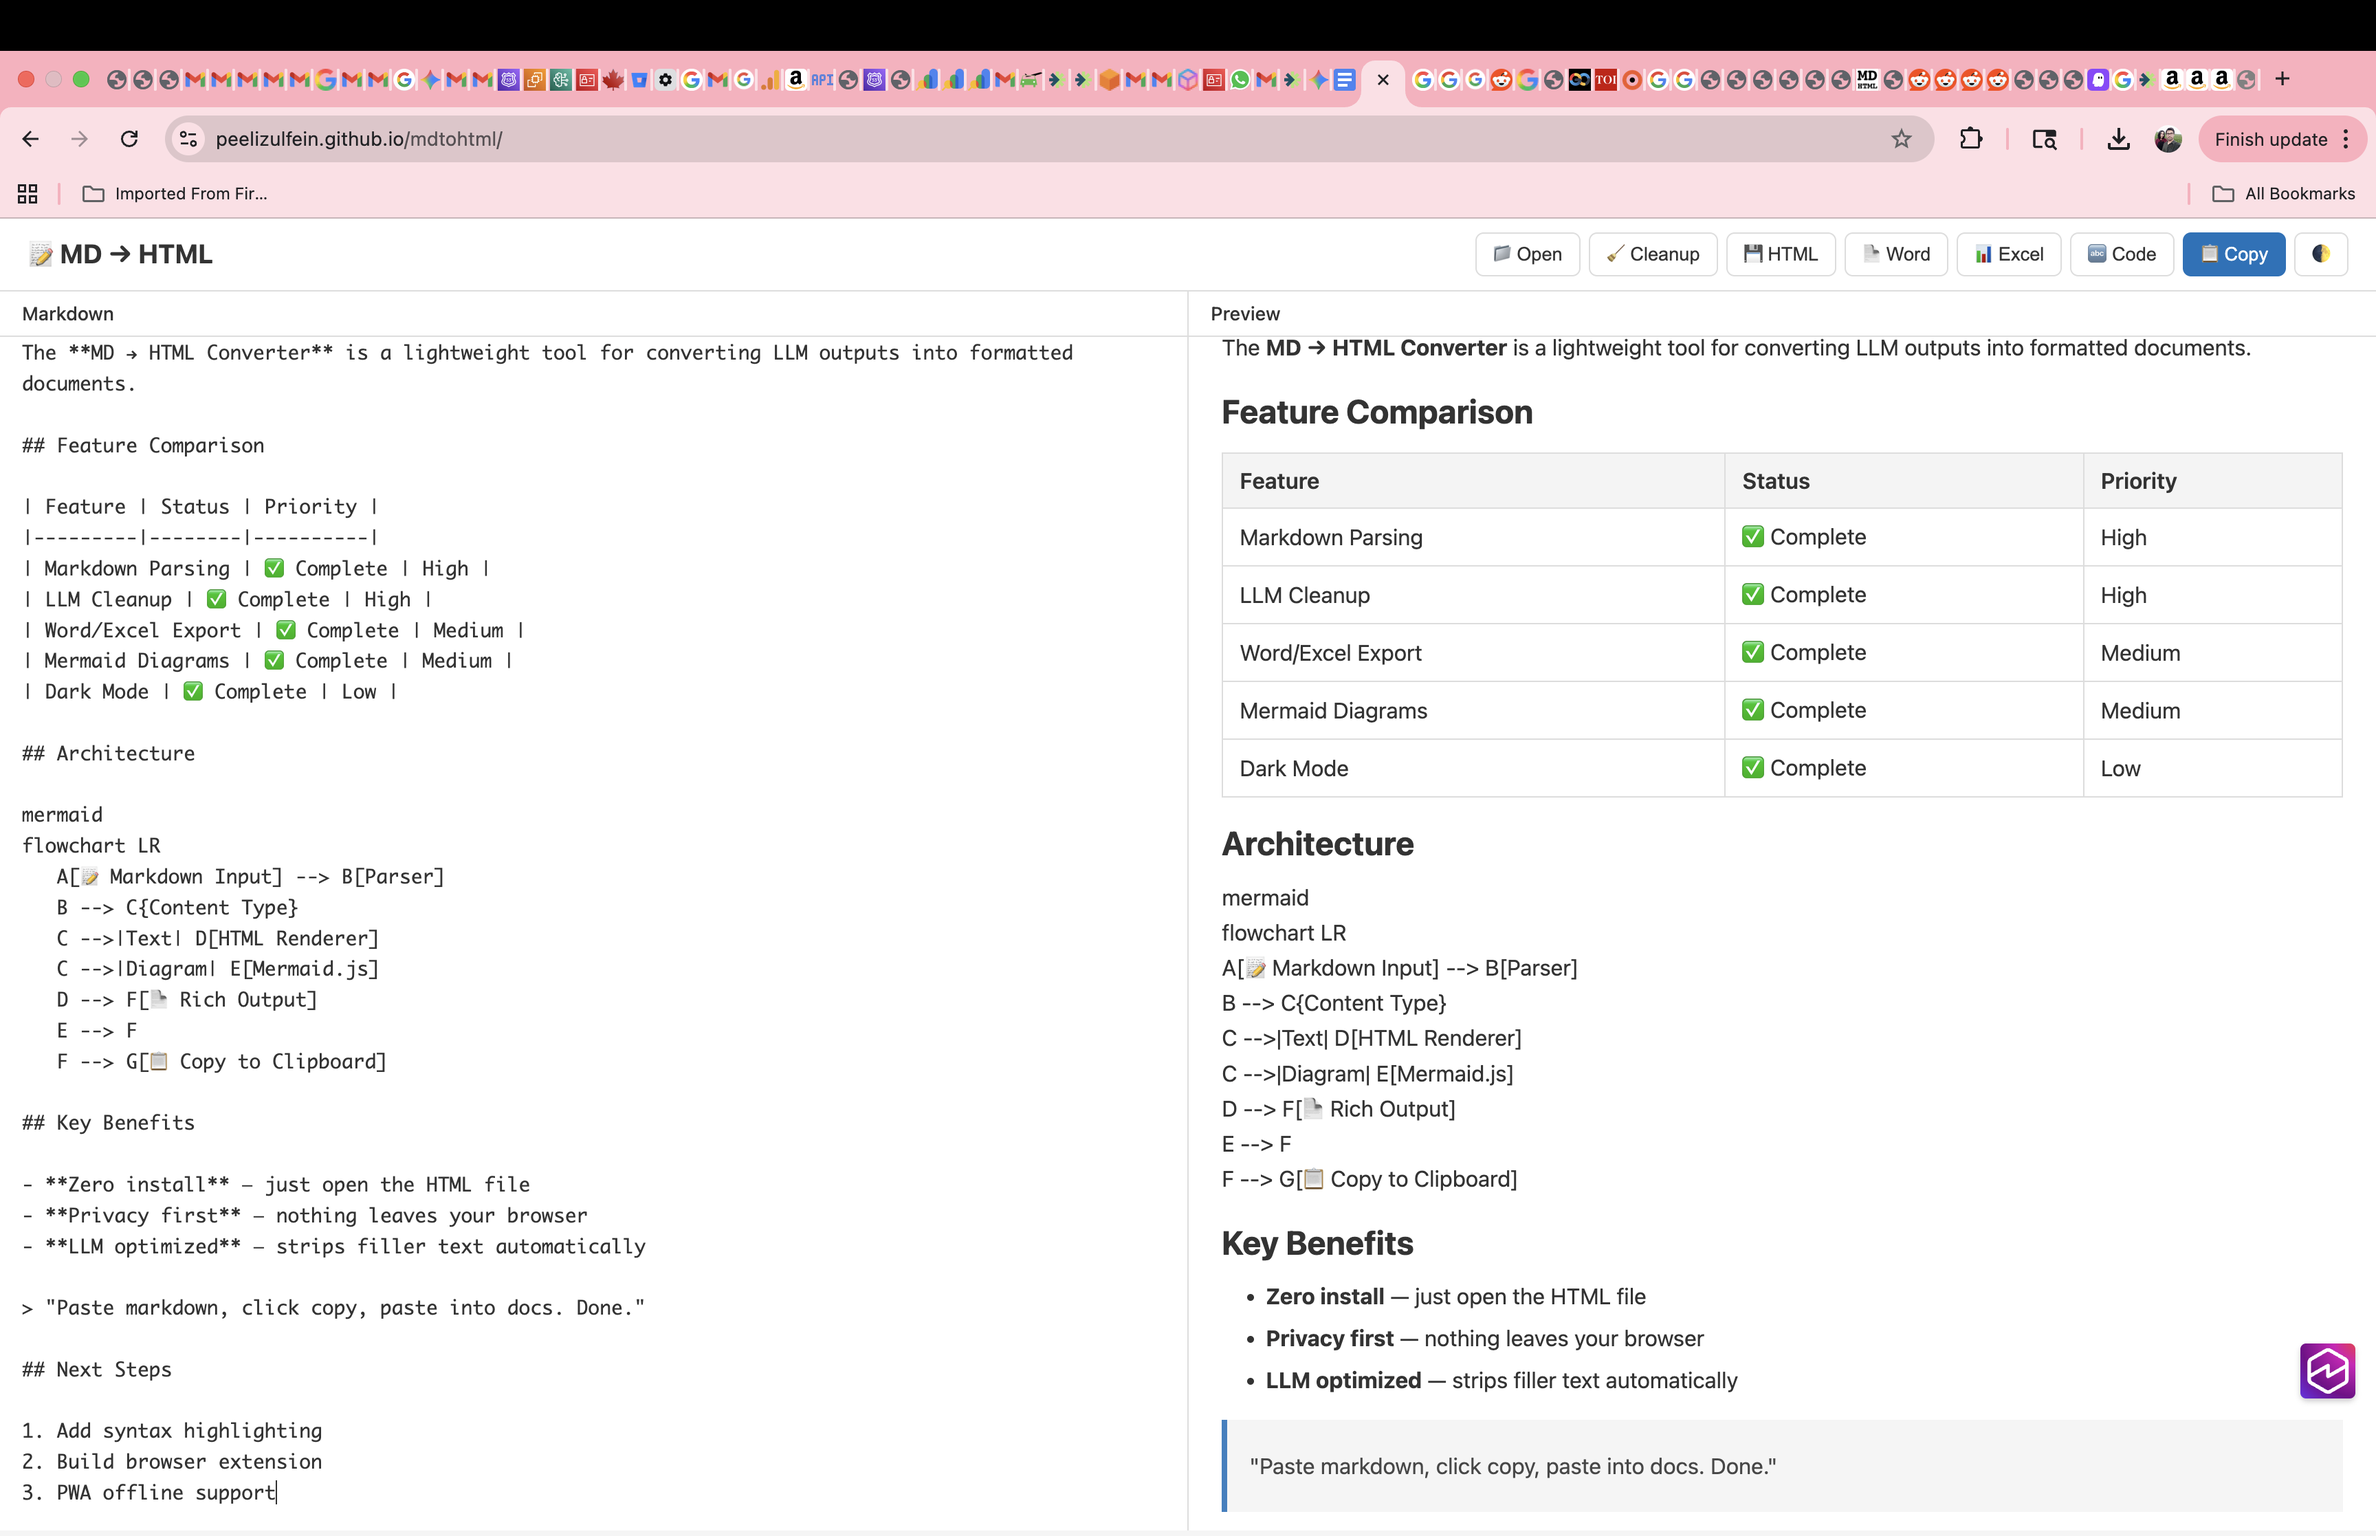
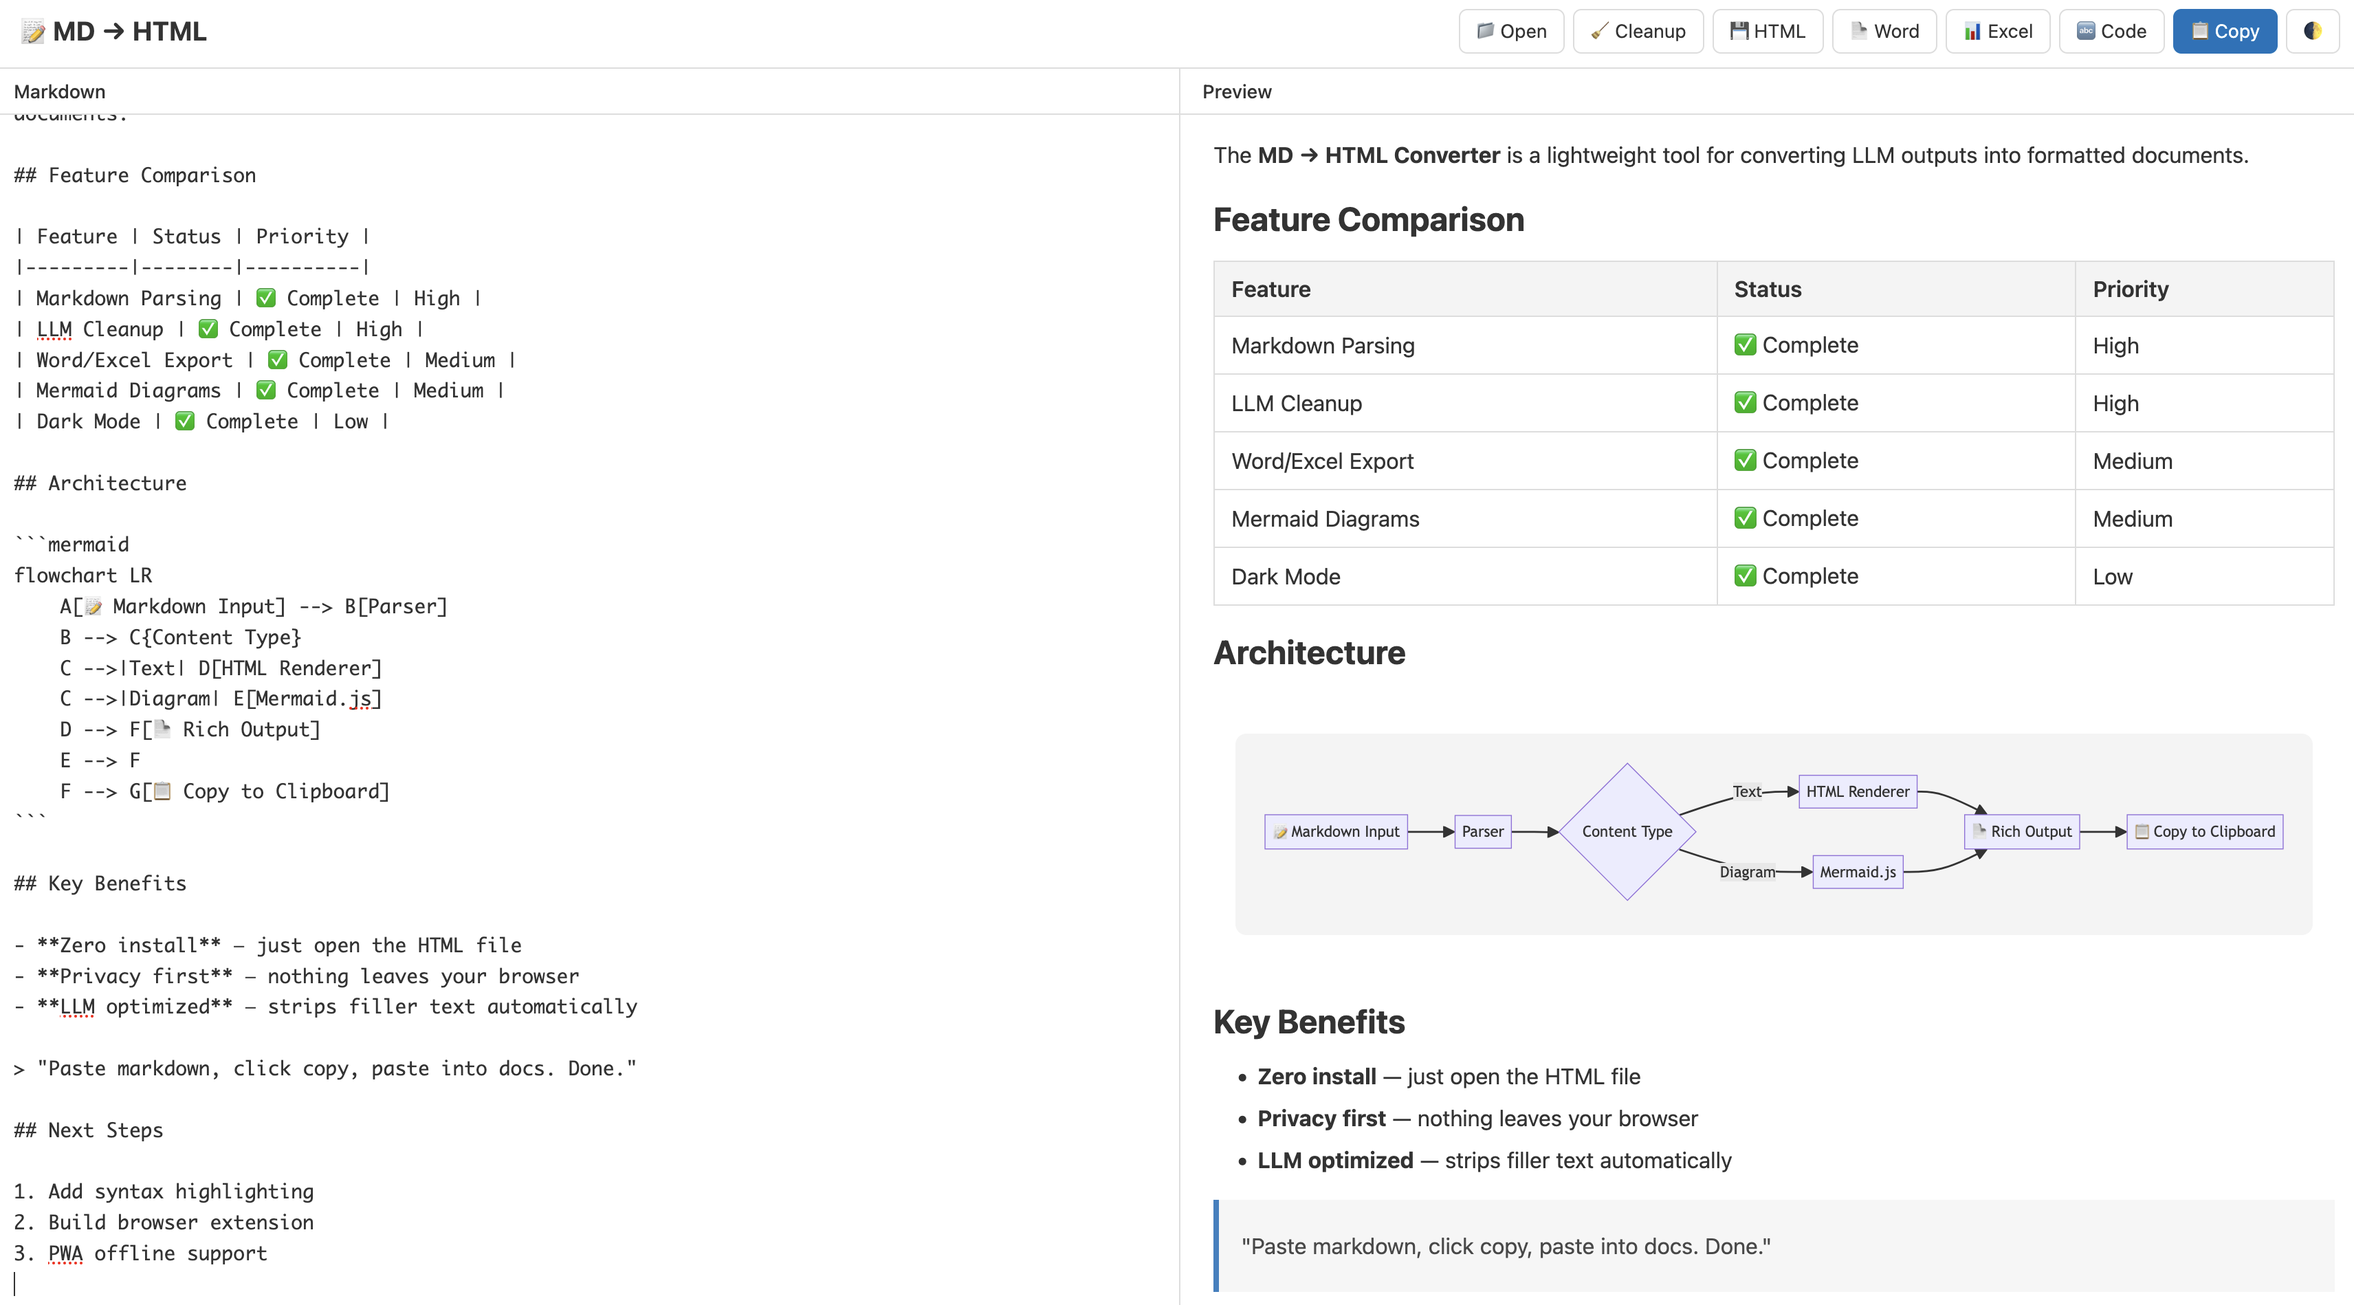
Add screenshot

diff --git a/index.html b/index.html
@@ -155,12 +155,12 @@ Use 🧹 Cleanup to remove LLM filler text."></textarea>
 
         // Custom renderer for mermaid
         const renderer = new marked.Renderer();
-        const origCode = renderer.code.bind(renderer);
-        renderer.code = function(code, lang) {
+        renderer.code = function({ text, lang }) {
             if (lang === 'mermaid') {
-                return `<div class="mermaid-container"><pre class="mermaid">${code}</pre></div>`;
+                return `<div class="mermaid-container"><pre class="mermaid">${text}</pre></div>`;
             }
-            return origCode(code, lang);
+            const escaped = text.replace(/</g, '&lt;').replace(/>/g, '&gt;');
+            return `<pre><code class="language-${lang || ''}">${escaped}</code></pre>`;
         };
         marked.setOptions({ breaks: true, gfm: true, renderer });
 
